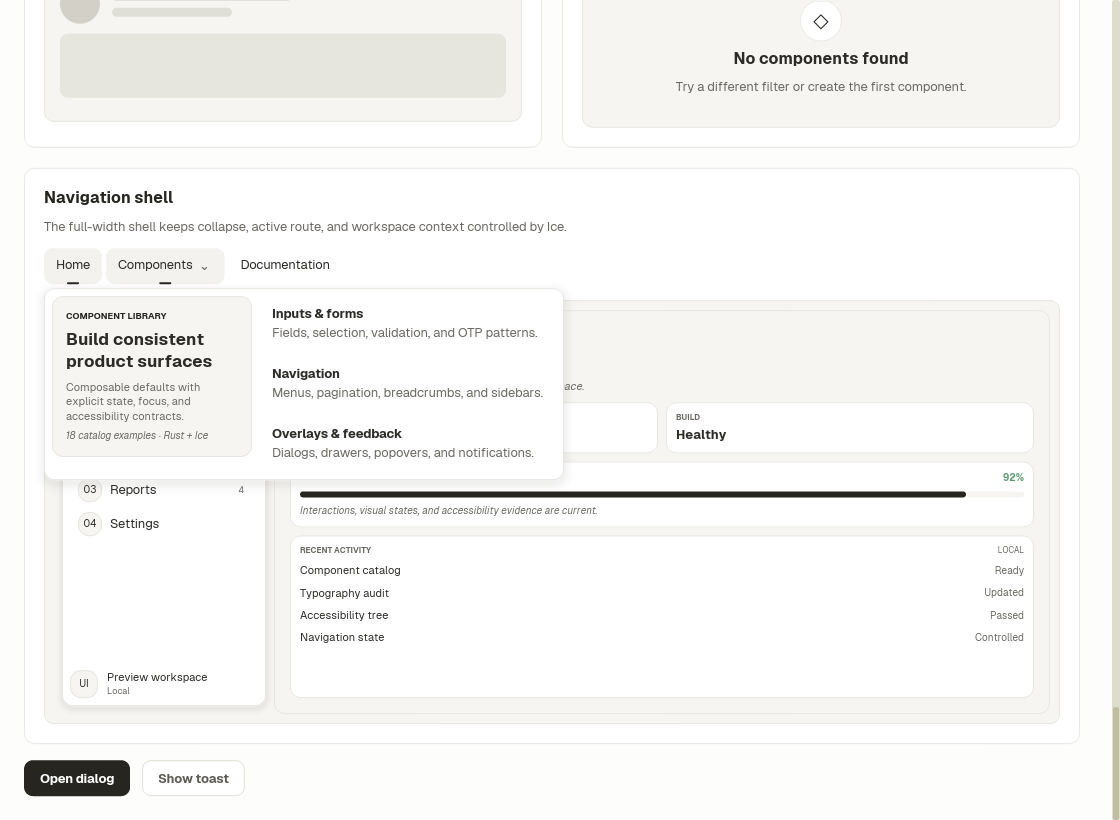
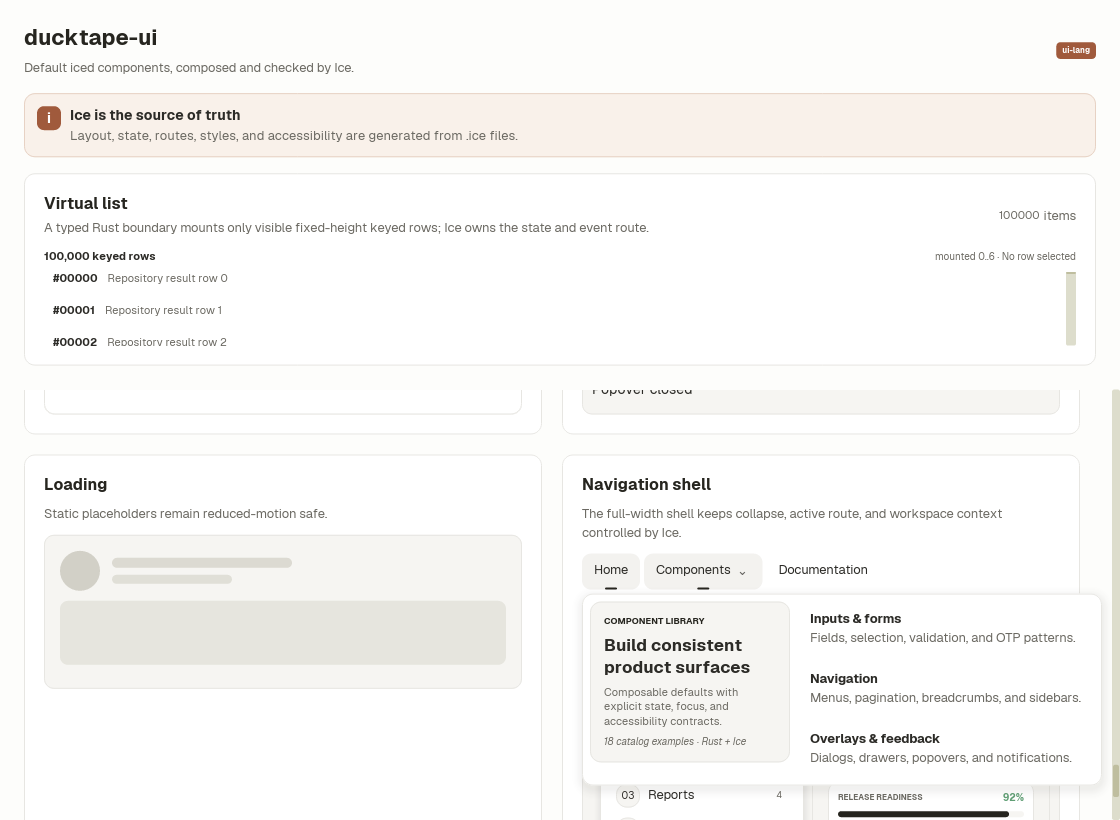
fix(virtual-list): define scroll ownership

diff --git a/crates/ui-lang-runtime/src/virtual_list.rs b/crates/ui-lang-runtime/src/virtual_list.rs
@@ -4,6 +4,15 @@
 //! visible range plus overscan is converted into Iced elements. This keeps
 //! layout, diff, and draw work proportional to mounted rows instead of the
 //! logical collection size.
+//!
+//! The widget owns its vertical scrolling. Mount it under a bounded-height,
+//! non-vertically-scrolling parent. An arbitrary standard Iced vertical
+//! `Scrollable` ancestor is outside the v1 interaction contract: Iced 0.14
+//! keeps touch event positions in window coordinates while translating only
+//! the cursor and replacement viewport, without exposing the lost ancestor
+//! transform to descendants. Ordinary non-scrolling layout parents are
+//! supported. Scrolling ancestors that translate or clip the list on either
+//! hit-test axis require a future explicit scroll-context contract.
 
 use crate::{StableId, accessible};
 use iced::advanced::text;
@@ -597,6 +606,10 @@ fn navigation_index(
 /// It is never called for offscreen items outside overscan.
 /// `collection_label` supplies the accessible name for the list.
 /// `label` supplies the AccessKit name for each mounted item.
+///
+/// The parent must provide a bounded height and must not scroll the list
+/// vertically. This widget's pointer and touch guarantees cover its owned
+/// native scrollable and viewport, not an arbitrary scrolling ancestor.
 #[allow(clippy::too_many_arguments)]
 pub fn virtual_list<'a, T, Key, Message, Theme, Renderer>(
     state: &VirtualListState<Key>,

diff --git a/crates/ui/src/ui/virtual_list.rs b/crates/ui/src/ui/virtual_list.rs
@@ -14,7 +14,8 @@ pub use ui_lang_runtime::{
 /// Builds a fixed-height list with Ducktape row colors and geometry.
 ///
 /// The caller retains the strongly typed items, keys, state, and messages. Only
-/// visible and overscan rows invoke `view`.
+/// visible and overscan rows invoke `view`. Mount the result in a bounded-height
+/// parent that does not scroll it vertically; the list owns vertical scrolling.
 #[allow(clippy::too_many_arguments)]
 pub fn virtual_list<'a, T, Key, Message>(
     state: &VirtualListState<Key>,

diff --git a/crates/ui/docs/virtual-list.md b/crates/ui/docs/virtual-list.md
@@ -69,11 +69,26 @@ list name cannot collide with a row selector even if it contains `/`, `%`, or
 text that resembles an item path. Selector strings are a runtime contract;
 callers should not reconstruct them from `logical()`.
 
+`VirtualList` owns vertical scrolling. Its parent must give it a bounded height
+and must not scroll it vertically. Ordinary non-scrolling layout parents are
+supported. A scrolling ancestor that translates or clips the list on a
+hit-test axis is outside the v1 pointer contract; in particular, do not nest the
+list in a standard Iced vertical `Scrollable`.
+
+This boundary is required by Iced 0.14's widget event contract. An ancestor
+scrollable leaves `FingerPressed` and `FingerLifted` positions in window
+coordinates while translating the cursor and replacement viewport, then omits
+the ancestor transform passed to descendants. When the cursor is unavailable
+or belongs to another pointer, the child cannot reconstruct that transform or
+the effective ancestor clip. A future explicit scroll-context API can revisit
+nested scrolling without guessing from ambiguous geometry.
+
 Mouse clicks and touch taps focus the named list without stealing input or
 cursor semantics from interactive row content or its native scrollbar. Touch
-ownership translates `FingerPressed` and `FingerLifted` positions into native
-scroll-content coordinates, clips them to the viewport, and observes descendant
-capture, even when the mouse cursor is unavailable or elsewhere. The
+ownership translates `FingerPressed` and `FingerLifted` positions through the
+list's owned native scroll offset, clips them to its owned viewport, and
+observes descendant capture, even when the mouse cursor is unavailable or
+elsewhere. The
 focused list supports Up, Down, Home, End, PageUp, and PageDown.
 `scroll_to_item` and `scroll_to_key` update retained state; a private revisioned
 operation synchronizes the native scrollable on the next layout, including
@@ -95,10 +110,11 @@ until virtual accessibility child requests have a native Iced contract.
 V1 intentionally requires a finite positive fixed row height. It does not
 measure variable-height content, retain controls after their key leaves the
 mounted overscan window, support multiple selection, reorder items by drag, or
-add Ice syntax. Interactive state for keys shared by consecutive mounted
-windows is retained exactly. TreeView and DataGrid can build on this runtime
-contract; variable-height virtualization needs separate measurement and
-anchoring evidence before admission.
+add Ice syntax or support an ancestor that scrolls the list vertically.
+Interactive state for keys shared by consecutive mounted windows is retained
+exactly. TreeView and DataGrid can build on this runtime contract;
+variable-height virtualization and nested vertical scrolling need separate
+measurement, anchoring, and coordinate-context evidence before admission.
 
 The `ducktape-ui` feature enables only the renderer-side
 `ui-lang-runtime/virtual-list` boundary and therefore compiles for

diff --git a/SPEC.md b/SPEC.md
@@ -2047,6 +2047,14 @@ revisioned private operations synchronize programmatic state to the native
 scrollable on first layout, remount, and absolute offset zero without a
 caller-owned Iced task. Public keys require `Clone + Eq + Hash`, so owned domain
 identifiers do not require interning. An
+application mounts the widget in a bounded-height parent that does not scroll it
+vertically; `VirtualList` owns its native vertical scrolling. Arbitrary standard
+Iced scrolling ancestors are outside the v1 pointer contract when they translate
+or clip the list on a hit-test axis. Iced 0.14 retains raw window-coordinate
+touch positions while translating only cursor and replacement viewport data, and
+does not expose the lost ancestor transform to the descendant. Ordinary
+non-scrolling layout parents remain supported; nested scrolling requires a
+future explicit coordinate-context contract rather than inferred geometry. An
 explicit `VirtualListId` combines a readable logical name with a runtime-unique
 namespace; identity and retained state are not clonable, while explicit `fork`
 requires a new logical name and copies retained data into a new namespace
@@ -2067,14 +2075,15 @@ per-key semantic allocations remain distinct even when
 different keys produce the same hash. Only mounted visible-plus-overscan rows
 become Elements. Native scrollbar and interactive-child mouse, touch, and cursor
 behavior take precedence over row selection. Touch ownership uses the pressed
-and lifted event positions translated into native scroll-content coordinates,
-clipped to the viewport, plus descendant capture before and after dispatch,
-independently of the current mouse cursor. Trees for
+and lifted event positions translated through the list's owned native scroll
+offset, clipped to its owned viewport, plus descendant capture before and after
+dispatch, independently of the current mouse cursor. Trees for
 keys in consecutive mounted-window intersections
 remain retained. The focused AccessKit list exposes its selected mounted item as
 the active descendant. `VirtualList.Frame`
 is an Ice composition around an app-owned extern component; there is deliberately
-no `virtual-for` syntax or variable-height measurement in v1. Accessibility v1
+no `virtual-for` syntax, variable-height measurement, or nested vertical-scroll
+contract in v1. Accessibility v1
 focuses and navigates the collection but does not create offscreen item nodes or
 per-item accessibility actions.
 

diff --git a/COVERAGE.md b/COVERAGE.md
@@ -335,6 +335,13 @@ unchanged build/diff/layout/draw frames, constant-time `update_snapshot` plus
 wall-time and instrumented allocation budgets. The reducer path requires zero
 allocations and bytes for scalar keys; rendering retains the visible+overscan row
 callback and exact mounted child-slot budgets.
+These interaction contracts use a bounded-height mount with no vertical
+scrolling ancestor: the list owns the tested native scroll offset and viewport.
+Arbitrary standard Iced scrolling ancestors are explicitly outside v1 because
+Iced 0.14 does not pass descendants enough information to map raw touch events
+through an unavailable or unrelated cursor. The runnable showcase keeps the
+list in a fixed non-scrolling region and gives only the catalog below it an
+independent vertical scrollable.
 The extracted-crate downstream consumer compiles and executes the public
 runtime and `ducktape-ui` boundary.
 The showcase consumes it through a typed Ice extern and first-class tiny-skia
@@ -344,7 +351,8 @@ native X11 and wasm, and the extracted runtime package repeats the direct native
 platform selection to the caller. The
 Windows native WGPU job requires a renderer primitive from a measured mounted
 row subtree before accepting the first frame. V1 explicitly excludes
-variable-height measurement and new Ice syntax.
+variable-height measurement, scrolling-ancestor touch transforms, and new Ice
+syntax.
 
 Component contracts in 2.0 support checked prop defaults. Missing named
 arguments use pure closed expressions that cannot capture app state, component

diff --git a/README.md b/README.md
@@ -404,8 +404,9 @@ checks every Ice app graph before running `cargo test --workspace`.
 The showcase also renders 100,000 logical rows through the fixed-height
 [`VirtualList`](crates/ui/docs/virtual-list.md). Only visible plus overscan rows
 are materialized; the Ice view owns a typed extern state/event route and uses
-the shared `VirtualList.Frame` composition. No `virtual-for` or other Core
-syntax is involved.
+the shared `VirtualList.Frame` composition. The list sits in a bounded fixed
+region and owns its vertical scrolling; the catalog below it has a separate
+vertical scrollable. No `virtual-for` or other Core syntax is involved.
 
 ```ice
 test counter_contract

diff --git a/crates/ui/README.md b/crates/ui/README.md
@@ -60,8 +60,9 @@ Large fixed-row collections use the feature-gated
 [`VirtualList`](docs/virtual-list.md). Its state/event API lives in
 `ui-lang-runtime`, `ducktape-ui` applies semantic theme tokens, and
 `VirtualList.Frame` provides the reusable Ice composition around an
-application-owned typed extern. This is intentionally a runtime widget, not
-new Core syntax.
+application-owned typed extern. Give the extern slot a bounded height outside
+any vertical scrollable ancestor; the retained list owns vertical scrolling.
+This is intentionally a runtime widget, not new Core syntax.
 
 ## Rust library quick start
 

diff --git a/examples/showcase/README.md b/examples/showcase/README.md
@@ -9,6 +9,10 @@ cargo run -p showcase
 The catalog uses a paired grid at the default window size and stacks every
 section into one column at the 720-pixel minimum width.
 
+The 100,000-row `VirtualList` is a fixed, bounded region above the independently
+scrolling catalog. This is the supported integration shape: the retained list
+owns vertical scrolling and must not be nested in another vertical scrollable.
+
 ![Buttons, fields, and selection controls](screenshots/catalog-buttons.png)
 
 ![Paired modal and data-table sections](screenshots/catalog-layout.png)
